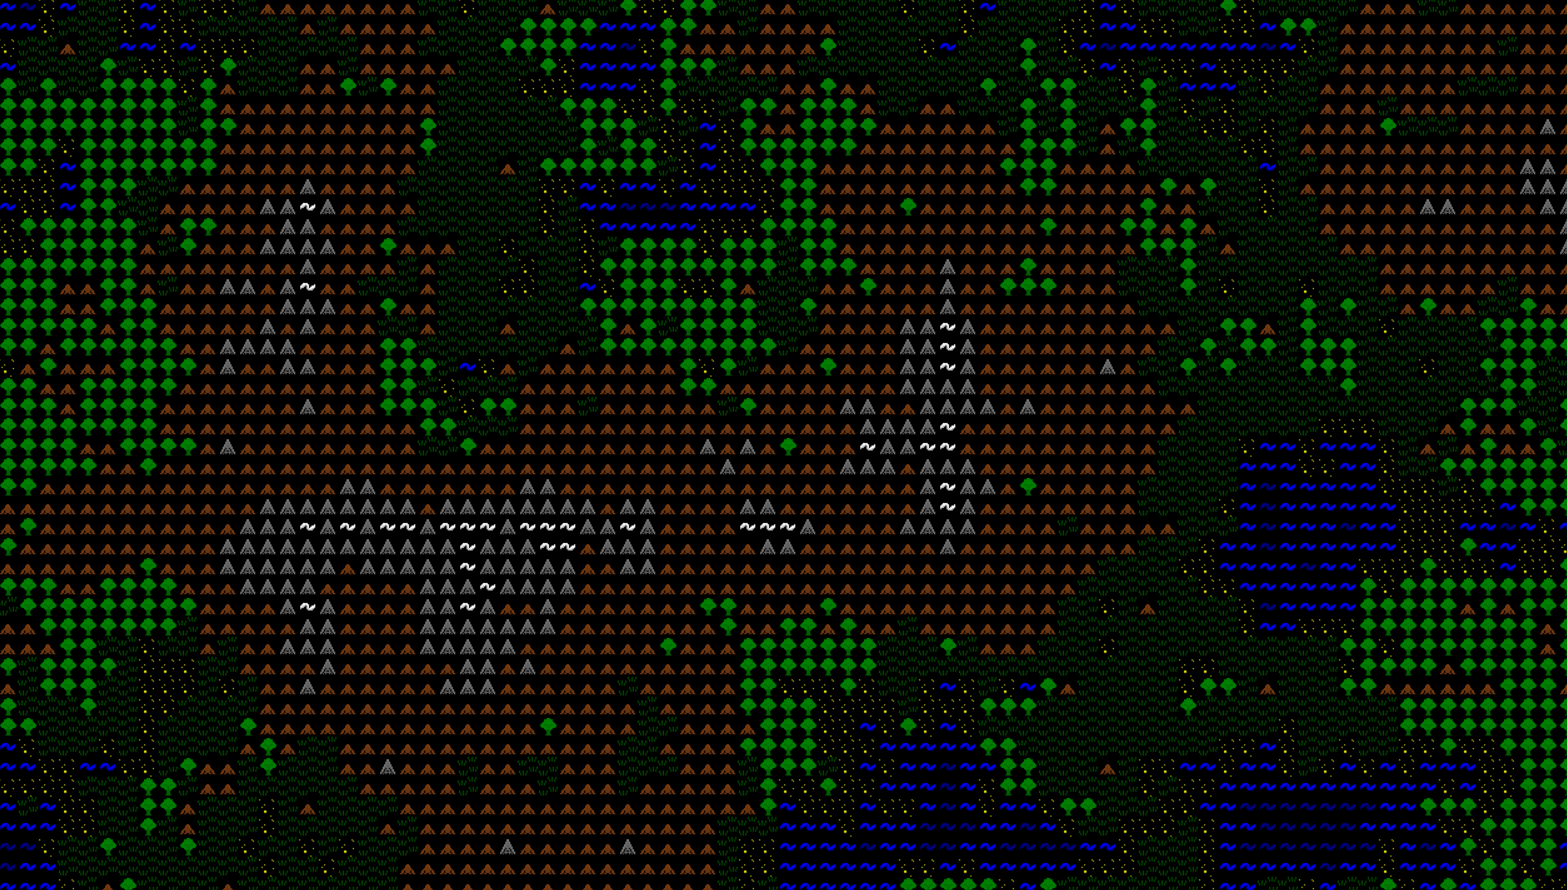
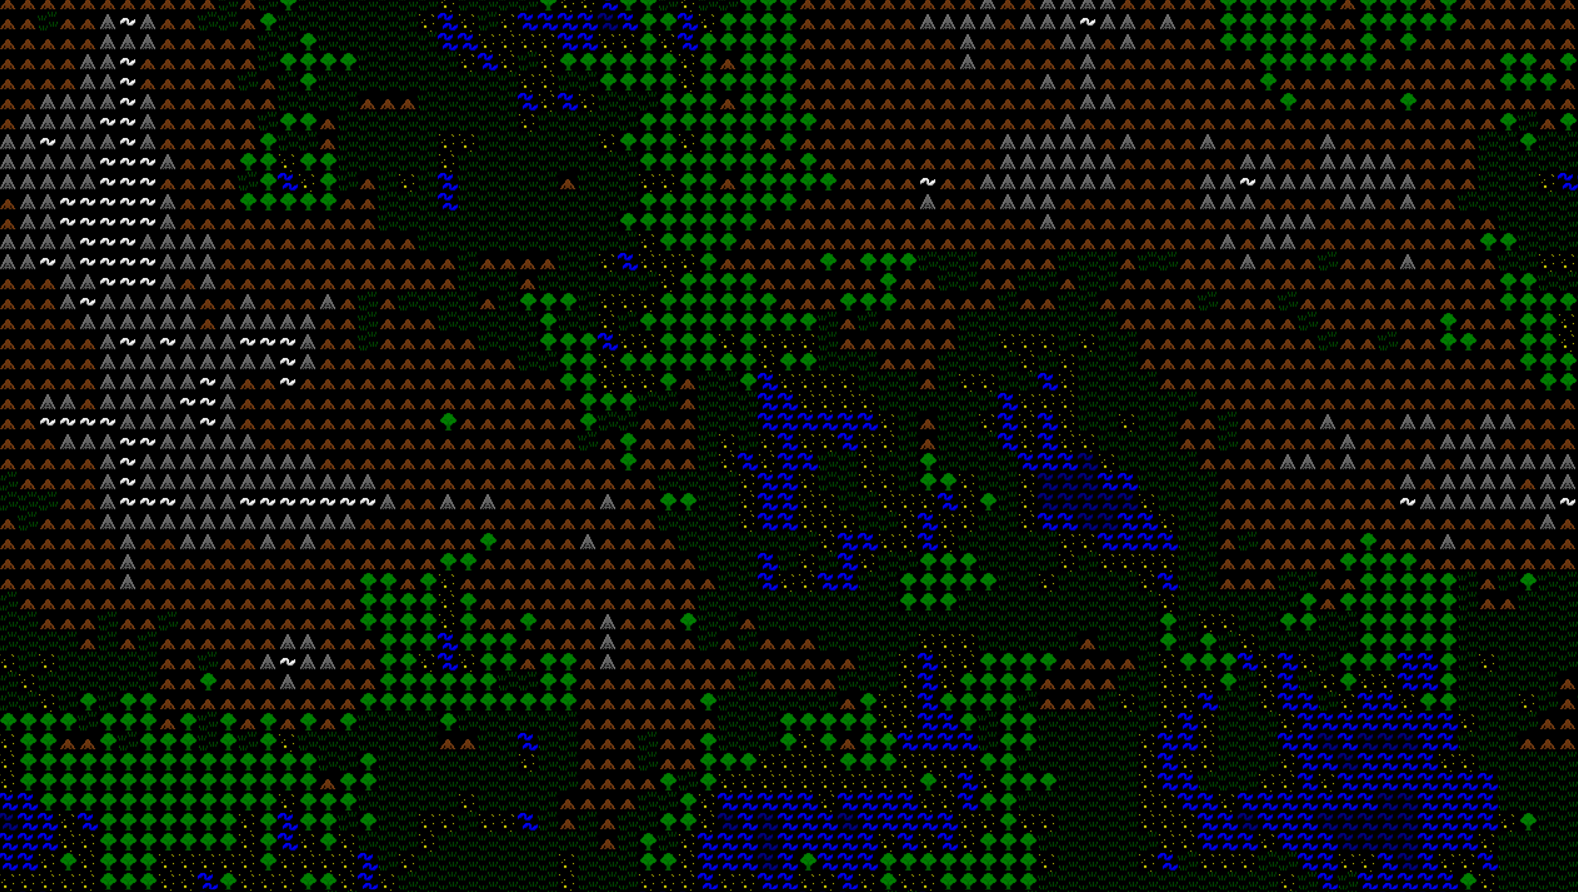
Updated screenshot with better watter and code for rivers that doesn't work

diff --git a/MGDFClone/Features/MapGeneratorV1.cs b/MGDFClone/Features/MapGeneratorV1.cs
@@ -1,0 +1,136 @@
+namespace MGDFClone.Features {
+    public enum eTileMapType {
+        DeepWater,
+        Water,
+        Sand,
+        Grass,
+        SmallTree,
+        Forest,
+        Hill,
+        Mountain,
+        Snow
+    }
+
+
+
+    public static class MapGeneratorV1 {
+        public static eTileMapType[][] GenerateMap(int width, int height, int elevationOctaves, int vegativeOctave) {
+            float[][] elevationNoise = PerlinNoiseV2.GeneratePerlinNoise(width, height, elevationOctaves);
+            //GenerateRivers(elevationNoise, 5000);
+            float[][] vegatativeNoise = PerlinNoiseV2.GeneratePerlinNoise(width, height, vegativeOctave);
+            eTileMapType[][] tileMap = new eTileMapType[width][];
+            for (int i = 0; i < width; i++) {
+                tileMap[i] = new eTileMapType[height];
+                for (int j = 0; j < height; j++) {
+                    tileMap[i][j] = DetermineBaseTerrain(elevationNoise[i][j]);
+                }
+            }
+            for (int i = 0; i < width; i++) {
+                for (int j = 0; j < height; j++) {
+                    ApplyVegetationLayer(tileMap, elevationNoise[i][j], vegatativeNoise[i][j], i, j);
+                }
+            }
+            return tileMap;
+        }
+
+        public static void GenerateRivers(float[][] heightMap, int riverCount) {
+            int width = heightMap.Length;
+            int height = heightMap[0].Length;
+            bool[][] riverMap = new bool[width][];
+            for(int i = 0; i < width; i++) {
+                riverMap[i] = new bool[height];
+            }
+            List<(int x, int y)> heightPoints = FindHighElevationPoints(heightMap, 0.1f);
+            Random rand = new Random();
+            for (int i = 0; i < riverCount; i++) {
+                var startingPoint = heightPoints[rand.Next(heightPoints.Count)];
+                TraceRiver(heightMap, riverMap, startingPoint.x, startingPoint.y);
+            }
+        }
+
+        private static void TraceRiver(float[][] heightMap, bool[][] riverMap, int x, int y) {
+            int width = heightMap.Length;
+            int height = heightMap[0].Length;
+
+            while (true) {
+                // Mark current tile as a river
+                riverMap[x][y] = true;
+                heightMap[x][y] = 0.2f;
+
+                // Find the neighboring tile with the lowest elevation
+                (int nx, int ny) = GetLowestNeighbor(heightMap, x, y);
+
+                // If no lower neighbor or reached edge of the map, stop
+                if (nx == -1 || ny == -1 || heightMap[nx][ny] >= heightMap[x][y]) {
+                    break;
+                }
+
+                // Move to the next tile
+                x = nx;
+                y = ny;
+                
+            }
+        }
+
+        private static (int, int) GetLowestNeighbor(float[][] heightMap, int x, int y) {
+            int width = heightMap.Length;
+            int height = heightMap[0].Length;
+            int[] dx = { -1, 1, 0, 0, -1, 1, -1, 1 };
+            int[] dy = { 0, 0, -1, 1, -1, -1, 1, 1 };
+
+            float minElevation = heightMap[x][y];
+            (int, int) lowestNeighbor = (-1, -1);
+
+            for (int i = 0; i < 8; i++) {
+                int nx = x + dx[i];
+                int ny = y + dy[i];
+                if (nx >= 0 && nx < width && ny >= 0 && ny < height && heightMap[nx][ny] < minElevation) {
+                    minElevation = heightMap[nx][ny];
+                    lowestNeighbor = (nx, ny);
+                }
+            }
+
+            return lowestNeighbor;
+        }
+
+        private static List<(int x, int y)> FindHighElevationPoints(float[][] heightMap, float threshold) {
+            int width = heightMap.Length;
+            int height = heightMap[0].Length;
+            List<(int, int)> points = new List<(int, int)>();
+            for (int x = 0; x < width; x++) {
+                for(int y = 0; y < height; y++) {
+                    if(heightMap[x][y] > threshold) {
+                        points.Add((x,y));
+                    }
+                }
+            }
+            return points;
+        }
+
+        private static void ApplyVegetationLayer(eTileMapType[][] tileMap, float elevationValue, float vegetationValue, int x, int y) {
+            if (tileMap[x][y] == eTileMapType.Grass) {
+                if (vegetationValue > 0.50f) {
+                    // High vegetation noise = Forest
+                    tileMap[x][y] = eTileMapType.Forest;
+                }
+            }
+        }
+
+        private static eTileMapType DetermineBaseTerrain(float elevationValue) {
+            if (elevationValue < 0.20f)
+                return eTileMapType.DeepWater; // Low elevation = Water
+            if (elevationValue < 0.30f)
+                return eTileMapType.Water; // Low elevation = Water
+            else if (elevationValue < 0.35f)
+                return eTileMapType.Sand; // Slightly higher = Sand (beach)
+            else if (elevationValue < 0.50f)
+                return eTileMapType.Grass; // Middle = Grasslands
+            else if (elevationValue < 0.70f)
+                return eTileMapType.Hill; // Middle = Grasslands
+            else if (elevationValue < 0.80f)
+                return eTileMapType.Mountain; // Higher = Mountain
+            else
+                return eTileMapType.Snow; // Highest = Snow
+        }
+    }
+}

diff --git a/MGDFClone/Screens/OverworldScreen.cs b/MGDFClone/Screens/OverworldScreen.cs
@@ -29,7 +29,7 @@ public class OverworldScreen : ScreenBase {
     }
 
     public override void LoadContent() {
-        eTileMapType[][] elevationMap = MapGenerator.GenerateMap(width, height, _octaves, _octaves);
+        eTileMapType[][] elevationMap = MapGeneratorV1.GenerateMap(width, height, _octaves, _octaves);
         for(int i = 0; i < elevationMap.Length; i++) {
             for (int j = 0; j < elevationMap[i].Length; j++) {
                 Entity tileEntity = _world.CreateEntity();
@@ -38,11 +38,11 @@ public class OverworldScreen : ScreenBase {
                 eTileMapType tile = elevationMap[i][j];
                 switch (tile) {
                     case eTileMapType.DeepWater:
-                        sprite = eSprite.Tilde;
+                        sprite = eSprite.Water2;
                         color = Color.DarkBlue;
                         break;
                     case eTileMapType.Water:
-                        sprite = eSprite.Tilde;
+                        sprite = eSprite.Water2;
                         color = Color.Blue;
                         break;
                     case eTileMapType.Sand:

diff --git a/MGDFClone/SpriteEnums.cs b/MGDFClone/SpriteEnums.cs
@@ -278,7 +278,7 @@
         Willow = 244,
         Hook = 245,
         Barrel = 246,
-        Sand = 247,
+        Water2 = 247,
         RoundRock = 248,
         BugBig = 249,
         BugSmall = 250,
